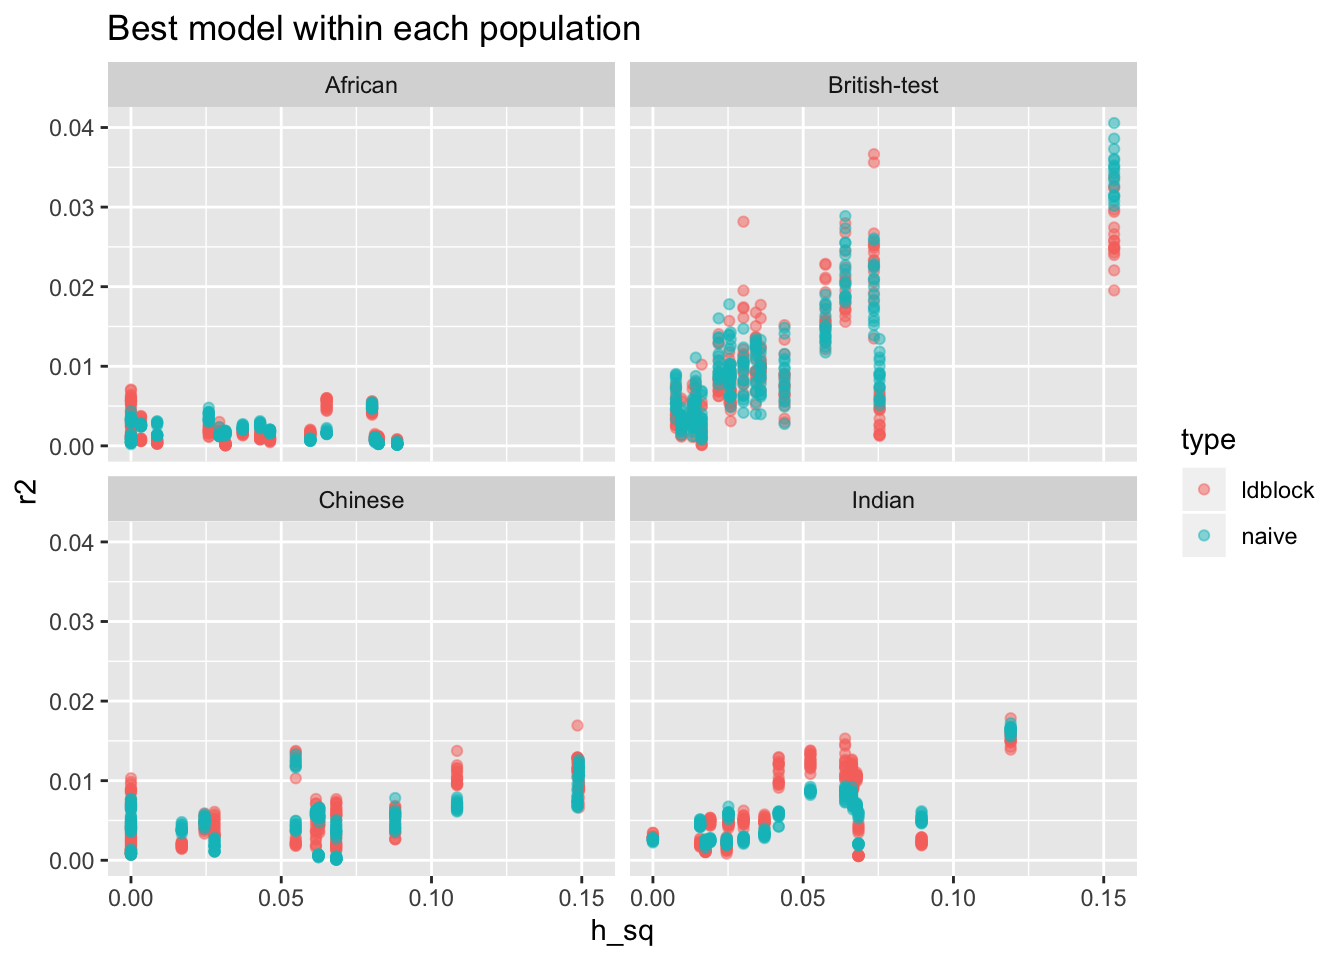
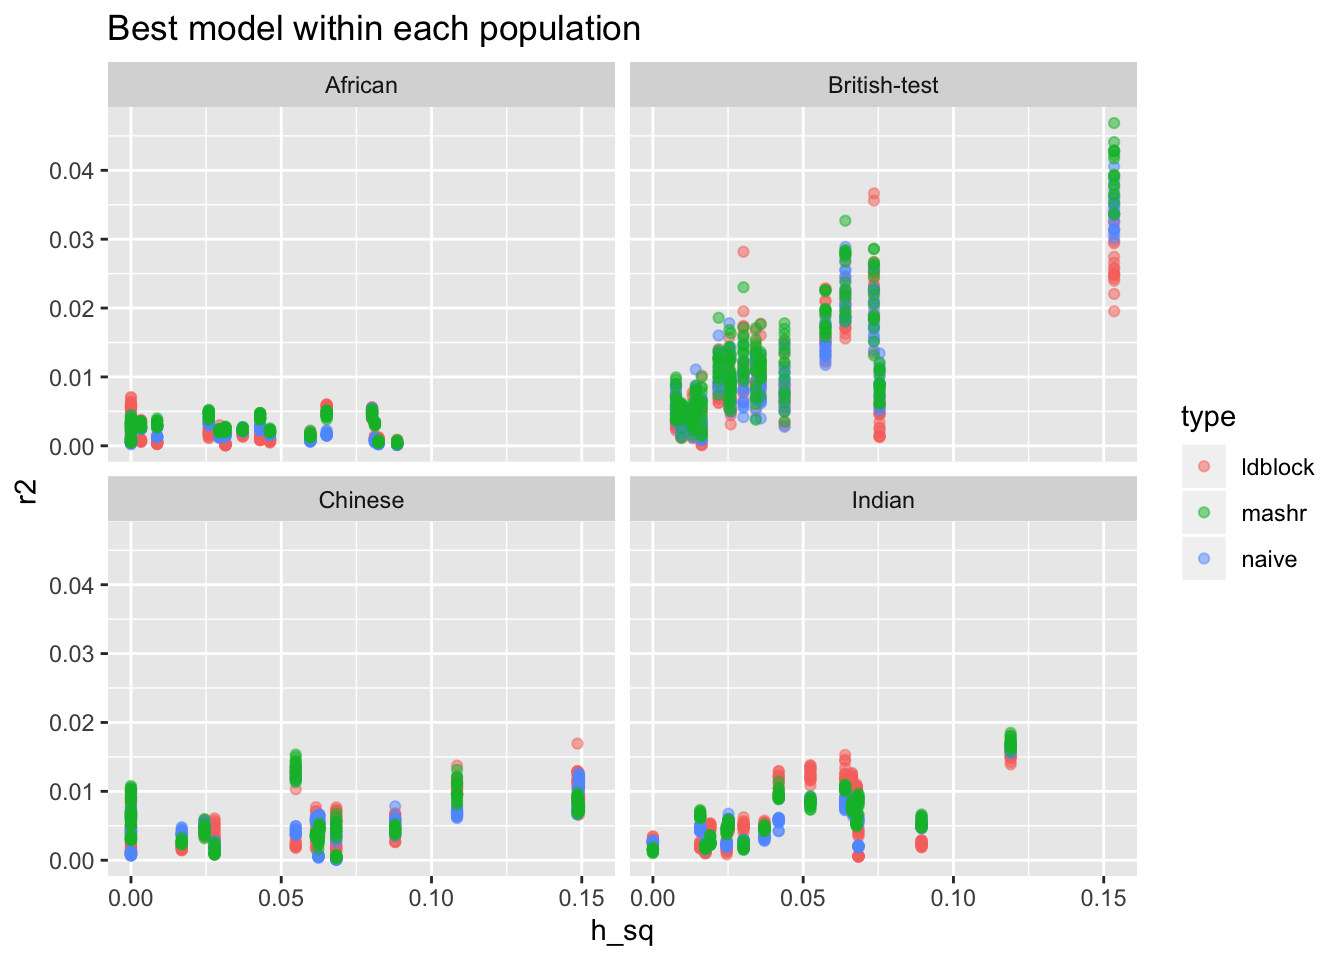
added ldblock ptrs

diff --git a/docs/first_look_at_ldblock_ptrs.html b/docs/first_look_at_ldblock_ptrs.html
@@ -11,7 +11,7 @@
 
 
 
-<title>First look at PTRS with LD block based pruning</title>
+<title>First look at PTRS with LD block based pruning or mashr p-value</title>
 
 <script src="site_libs/jquery-1.11.3/jquery.min.js"></script>
 <meta name="viewport" content="width=device-width, initial-scale=1" />
@@ -421,7 +421,7 @@ div.tocify {
 
 
 
-<h1 class="title toc-ignore">First look at PTRS with LD block based pruning</h1>
+<h1 class="title toc-ignore">First look at PTRS with LD block based pruning or mashr p-value</h1>
 
 </div>
 
@@ -472,7 +472,23 @@ df_result2 = do.call(rbind, result)
 df_result2$population = parse_pop(df_result$population)
 df_result2$ptrs_col = factor(df_result$ptrs_col, levels = unique(df_result$ptrs_col))
 
-df_ptrs = rbind(df_result %&gt;% select(-SSE.wo, -SSE.with) %&gt;% mutate(type = &#39;ldblock&#39;), df_result2 %&gt;% mutate(type = &#39;naive&#39;))</code></pre>
+# df_ptrs = rbind(df_result %&gt;% select(-SSE.wo, -SSE.with) %&gt;% mutate(type = &#39;ldblock&#39;), df_result2 %&gt;% mutate(type = &#39;naive&#39;))</code></pre>
+</div>
+<div id="ptrs-with-mashr-p-value" class="section level2">
+<h2><span class="header-section-number">1.3</span> PTRS with mashr p-value</h2>
+<pre class="r"><code>result = list()
+for(i in 1 : 17) {
+  for(t in traits) {
+    filename = paste0(&#39;~/Desktop/tmp/ptrs_mashr_r2/ptrs-r2_subset&#39;, i, &#39;_x_&#39;, t, &#39;.txt&#39;)
+    tmp = read.table(filename, header = T, sep = &#39;\t&#39;)
+    result[[length(result) + 1]] = tmp %&gt;% mutate(subset = i, trait = t)
+  }
+}
+df_result3 = do.call(rbind, result)
+df_result3$population = parse_pop(df_result$population)
+df_result3$ptrs_col = factor(df_result$ptrs_col, levels = unique(df_result$ptrs_col))
+
+df_ptrs = rbind(df_result %&gt;% select(-SSE.wo, -SSE.with) %&gt;% mutate(type = &#39;ldblock&#39;), df_result2 %&gt;% mutate(type = &#39;naive&#39;), df_result3 %&gt;% select(-SSE.wo, -SSE.with) %&gt;% mutate(type = &#39;mashr&#39;))</code></pre>
 </div>
 </div>
 <div id="plot" class="section level1">
@@ -480,8 +496,12 @@ df_ptrs = rbind(df_result %&gt;% select(-SSE.wo, -SSE.with) %&gt;% mutate(type =
 <div id="side-by-side-comparison" class="section level2">
 <h2><span class="header-section-number">2.1</span> Side-by-side comparison</h2>
 <pre class="r"><code>df_side_by_side = df_ptrs %&gt;% dcast(population + ptrs_col + subset + trait ~ type, value.var = &#39;r2&#39;)</code></pre>
-<pre class="r"><code>df_side_by_side %&gt;% ggplot() + geom_point(aes(x = naive, y = ldblock), alpha = .5) + facet_grid(trait~population, scales = &#39;free&#39;) + geom_abline(slope = 1, intercept = 0)</code></pre>
+<pre class="r"><code>df_side_by_side %&gt;% ggplot() + geom_point(aes(x = naive, y = ldblock, color = ptrs_col), alpha = .5) + facet_grid(trait~population, scales = &#39;free&#39;) + geom_abline(slope = 1, intercept = 0)</code></pre>
 <p><img src="first_look_at_ldblock_ptrs_files/figure-html/plot1-1.png" width="768" /></p>
+<pre class="r"><code>df_side_by_side %&gt;% ggplot() + geom_point(aes(x = naive, y = mashr, color = ptrs_col), alpha = .5) + facet_grid(trait~population, scales = &#39;free&#39;) + geom_abline(slope = 1, intercept = 0)</code></pre>
+<p><img src="first_look_at_ldblock_ptrs_files/figure-html/plot2-1.png" width="768" /></p>
+<pre class="r"><code>df_side_by_side %&gt;% ggplot() + geom_point(aes(x = ldblock, y = mashr, color = ptrs_col), alpha = .5) + facet_grid(trait~population, scales = &#39;free&#39;) + geom_abline(slope = 1, intercept = 0)</code></pre>
+<p><img src="first_look_at_ldblock_ptrs_files/figure-html/plot3-1.png" width="768" /></p>
 </div>
 <div id="best-british-model" class="section level2">
 <h2><span class="header-section-number">2.2</span> Best British model</h2>
@@ -492,8 +512,14 @@ for(t in unique(df_ptrs$type)) {
   tmp[[length(tmp) + 1]] = o$perf_in_all %&gt;% mutate(type = t)
 }
 df_best_british = do.call(rbind, tmp)</code></pre>
-<pre class="r"><code>df_best_british %&gt;% dcast(trait + population + subset ~ type, value.var = &#39;r2&#39;) %&gt;% mutate(diff = ldblock - naive) %&gt;% ggplot() + geom_boxplot(aes(x = trait, y = diff, color = population)) + theme(legend.position = &#39;bottom&#39;, axis.text.x = element_text(angle = 90, vjust = 0.5, hjust = 1))# + scale_y_log10()</code></pre>
-<p><img src="first_look_at_ldblock_ptrs_files/figure-html/plot-best-british-1.png" width="672" /></p>
+<pre class="r"><code>tmp = df_best_british %&gt;% dcast(trait + population + subset ~ type, value.var = &#39;r2&#39;) # %&gt;% mutate(diff = ldblock - naive) %&gt;% ggplot() + geom_boxplot(aes(x = trait, y = diff, color = population)) + theme(legend.position = &#39;bottom&#39;, axis.text.x = element_text(angle = 90, vjust = 0.5, hjust = 1))# + scale_y_log10()
+for(pop in unique(tmp$population)) {
+  p = myggpairs(tmp %&gt;% filter(population == pop) %&gt;% select(ldblock, naive, mashr), tmp %&gt;% filter(population == pop) %&gt;% pull(trait)) + geom_abline(slope = 1, intercept = 0)
+  print(p + ggtitle(pop))
+}</code></pre>
+<p><img src="first_look_at_ldblock_ptrs_files/figure-html/plot-best-british-1.png" width="672" /><img src="first_look_at_ldblock_ptrs_files/figure-html/plot-best-british-2.png" width="672" /><img src="first_look_at_ldblock_ptrs_files/figure-html/plot-best-british-3.png" width="672" /><img src="first_look_at_ldblock_ptrs_files/figure-html/plot-best-british-4.png" width="672" /><img src="first_look_at_ldblock_ptrs_files/figure-html/plot-best-british-5.png" width="672" /></p>
+<pre class="r"><code>tmp %&gt;% ggplot() + geom_point(aes(x = naive, mashr, color = trait)) + facet_wrap(~population, scales = &#39;free&#39;) + geom_abline(slope = 1, intercept = 0)</code></pre>
+<p><img src="first_look_at_ldblock_ptrs_files/figure-html/plot-best-british-6.png" width="672" /></p>
 </div>
 <div id="best-within-each-population-model" class="section level2">
 <h2><span class="header-section-number">2.3</span> Best within each population model</h2>
@@ -504,8 +530,14 @@ for(t in unique(df_ptrs$type)) {
   tmp[[length(tmp) + 1]] = o$perf_in_all %&gt;% mutate(type = t)
 }
 df_best_each = do.call(rbind, tmp)</code></pre>
-<pre class="r"><code>df_best_each %&gt;% dcast(trait + population + subset ~ type, value.var = &#39;r2&#39;) %&gt;% mutate(diff = ldblock - naive) %&gt;% ggplot() + geom_boxplot(aes(x = trait, y = diff, color = population)) + theme(legend.position = &#39;bottom&#39;, axis.text.x = element_text(angle = 90, vjust = 0.5, hjust = 1))# + scale_y_log10()</code></pre>
-<p><img src="first_look_at_ldblock_ptrs_files/figure-html/plot-each-british-1.png" width="672" /></p>
+<pre class="r"><code>tmp = df_best_each %&gt;% dcast(trait + population + subset ~ type, value.var = &#39;r2&#39;) # %&gt;% mutate(diff = ldblock - naive) %&gt;% ggplot() + geom_boxplot(aes(x = trait, y = diff, color = population)) + theme(legend.position = &#39;bottom&#39;, axis.text.x = element_text(angle = 90, vjust = 0.5, hjust = 1))# + scale_y_log10()
+for(pop in unique(tmp$population)) {
+  p = myggpairs(tmp %&gt;% filter(population == pop) %&gt;% select(ldblock, naive, mashr), tmp %&gt;% filter(population == pop) %&gt;% pull(trait)) + geom_abline(slope = 1, intercept = 0)
+  print(p + ggtitle(pop))
+}</code></pre>
+<p><img src="first_look_at_ldblock_ptrs_files/figure-html/plot-each-british-1.png" width="672" /><img src="first_look_at_ldblock_ptrs_files/figure-html/plot-each-british-2.png" width="672" /><img src="first_look_at_ldblock_ptrs_files/figure-html/plot-each-british-3.png" width="672" /><img src="first_look_at_ldblock_ptrs_files/figure-html/plot-each-british-4.png" width="672" /><img src="first_look_at_ldblock_ptrs_files/figure-html/plot-each-british-5.png" width="672" /></p>
+<pre class="r"><code>tmp %&gt;% ggplot() + geom_point(aes(x = naive, mashr, color = trait)) + facet_wrap(~population, scales = &#39;free&#39;) + geom_abline(slope = 1, intercept = 0)</code></pre>
+<p><img src="first_look_at_ldblock_ptrs_files/figure-html/plot-each-british-6.png" width="672" /></p>
 </div>
 </div>
 <div id="regulabilityheritability-vs.ptrsprs" class="section level1">

diff --git a/docs/first_look_at_mesa_ptrs.html b/docs/first_look_at_mesa_ptrs.html
@@ -11,7 +11,7 @@
 
 
 
-<title>First look at MESA PTRS</title>
+<title>First look at MESA PTRS along with PTRS with LD block pruning</title>
 
 <script src="site_libs/jquery-1.11.3/jquery.min.js"></script>
 <meta name="viewport" content="width=device-width, initial-scale=1" />
@@ -421,7 +421,7 @@ div.tocify {
 
 
 
-<h1 class="title toc-ignore">First look at MESA PTRS</h1>
+<h1 class="title toc-ignore">First look at MESA PTRS along with PTRS with LD block pruning</h1>
 
 </div>
 
@@ -466,8 +466,25 @@ df_mesa = do.call(rbind, result)
 df_mesa$population = parse_pop(df_mesa$population)
 df_mesa$ptrs_col = factor(df_mesa$ptrs_col, levels = unique(df_mesa$ptrs_col))</code></pre>
 </div>
+<div id="mesa-ptrs-with-ld-block-based-pruning" class="section level2">
+<h2><span class="header-section-number">2.2</span> MESA PTRS with LD block based pruning</h2>
+<pre class="r"><code>mesa_models = c(&#39;AFHI&#39;, &#39;CAU&#39;, &#39;ALL&#39;)
+result = list()
+for(m in mesa_models) {
+  for(i in 1 : 17) {
+    for(t in traits) {
+      filename = paste0(&#39;~/Desktop/tmp/ptrs_mesa_ldblock_r2/ptrs_mesa_ldblock_r2_&#39;, m, &#39;/ptrs-r2_subset&#39;, i, &#39;_x_&#39;, t, &#39;.txt&#39;)
+      tmp = read.table(filename, header = T, sep = &#39;\t&#39;)
+      result[[length(result) + 1]] = tmp %&gt;% mutate(subset = i, trait = t, model = m)
+    }
+  }
+}
+df_mesa_ld = do.call(rbind, result)
+df_mesa_ld$population = parse_pop(df_mesa_ld$population)
+df_mesa_ld$ptrs_col = factor(df_mesa_ld$ptrs_col, levels = unique(df_mesa_ld$ptrs_col))</code></pre>
+</div>
 <div id="gtex-v8-ctimp-whole-blood-ptrs" class="section level2">
-<h2><span class="header-section-number">2.2</span> GTEx V8 CTIMP whole blood PTRS</h2>
+<h2><span class="header-section-number">2.3</span> GTEx V8 CTIMP whole blood PTRS</h2>
 <pre class="r"><code>result = list()
 for(i in 1 : 17) {
   for(t in traits) {
@@ -481,8 +498,9 @@ df_gtex$population = parse_pop(df_gtex$population)
 df_gtex$ptrs_col = factor(df_gtex$ptrs_col, levels = unique(df_gtex$ptrs_col))</code></pre>
 </div>
 <div id="merge" class="section level2">
-<h2><span class="header-section-number">2.3</span> Merge</h2>
-<pre class="r"><code>df_ptrs = rbind(df_mesa %&gt;% select(-SSE.wo, -SSE.with), df_gtex)</code></pre>
+<h2><span class="header-section-number">2.4</span> Merge</h2>
+<pre class="r"><code>df_ptrs = rbind(df_mesa %&gt;% select(-SSE.wo, -SSE.with), df_gtex)
+df_ld = rbind(df_mesa %&gt;% filter(model %in% mesa_models) %&gt;% select(-SSE.wo, -SSE.with) %&gt;% mutate(type = &#39;naive&#39;), df_mesa_ld %&gt;% filter(model %in% mesa_models) %&gt;% select(-SSE.wo, -SSE.with) %&gt;% mutate(type = &#39;ldblock&#39;))</code></pre>
 </div>
 </div>
 <div id="plot" class="section level1">
@@ -594,6 +612,27 @@ best_for_each = inner_join(best_for_each, regu, by = c(&#39;trait&#39;, &#39;pop
   ggplot() + geom_point(aes(x = h_sq, y = max_r2)) + 
   facet_grid(model~population, scales = &#39;free&#39;) </code></pre>
 <p><img src="first_look_at_mesa_ptrs_files/figure-html/ptrs-pve-vs-r2-best-each-1.png" width="576" /></p>
+</div>
+</div>
+<div id="comparing-naive-ptrs-and-ldblock-based-ptrs" class="section level1">
+<h1><span class="header-section-number">4</span> Comparing naive PTRS and ldblock based PTRS</h1>
+<div id="overview-1" class="section level2">
+<h2><span class="header-section-number">4.1</span> Overview</h2>
+<pre class="r"><code>df_ld %&gt;% dcast(population + ptrs_col + subset + trait + model ~ type, value.var = &#39;r2&#39;) %&gt;% ggplot() + geom_point(aes(x = naive, y = ldblock, color = trait)) + facet_grid(population~model, scales = &#39;free&#39;) + geom_abline(slope = 1, intercept = 0)</code></pre>
+<p><img src="first_look_at_mesa_ptrs_files/figure-html/plot1-1.png" width="576" /></p>
+</div>
+<div id="best-with-each-model" class="section level2">
+<h2><span class="header-section-number">4.2</span> Best with each model</h2>
+<pre class="r"><code>df_ld_best_each = df_ld %&gt;% group_by(population, subset, trait, model, type) %&gt;% summarize(max_r2 = max(r2)) %&gt;% ungroup()
+df_ld_best_each %&gt;% dcast(population + subset + trait + model ~ type, value.var = &#39;max_r2&#39;) %&gt;% ggplot() + geom_point(aes(x = naive, y = ldblock, color = trait)) + facet_grid(population ~ model) + geom_abline(slope = 1, intercept = 0)</code></pre>
+<p><img src="first_look_at_mesa_ptrs_files/figure-html/best-british-vs-1.png" width="576" /></p>
+<pre class="r"><code>df_ld_best_each$pop = df_ld_best_each$population
+df_ld_best_each$pop[df_ld_best_each$pop %in% c(&#39;British-test&#39;, &#39;British-validation&#39;)] = &#39;British&#39;
+df_ld_best_each = inner_join(df_ld_best_each, regu, by = c(&#39;trait&#39;, &#39;pop&#39; = &#39;population&#39;, &#39;model&#39;))</code></pre>
+<pre class="r"><code>df_ld_best_each %&gt;% 
+  ggplot() + geom_point(aes(x = h_sq, y = max_r2, color = type), alpha = .3) + 
+  facet_grid(model~population, scales = &#39;free&#39;) </code></pre>
+<p><img src="first_look_at_mesa_ptrs_files/figure-html/vs-pve-plot-1.png" width="672" /></p>
 </div>
 </div>
 

diff --git a/docs/index.html b/docs/index.html
@@ -460,6 +460,7 @@ div.tocify {
 <ul>
 <li>First look at PTRS/PRS on GTEx V8 whole blood CTIMP model <a href="first_look_at_ptrs_prs.html">link</a></li>
 <li>MESA PTRS <a href="first_look_at_mesa_ptrs.html">link</a></li>
+<li>PTRS with LD block based pruning or mashr p-value <a href="first_look_at_ldblock_ptrs.html">link</a></li>
 </ul>
 </div>
 
